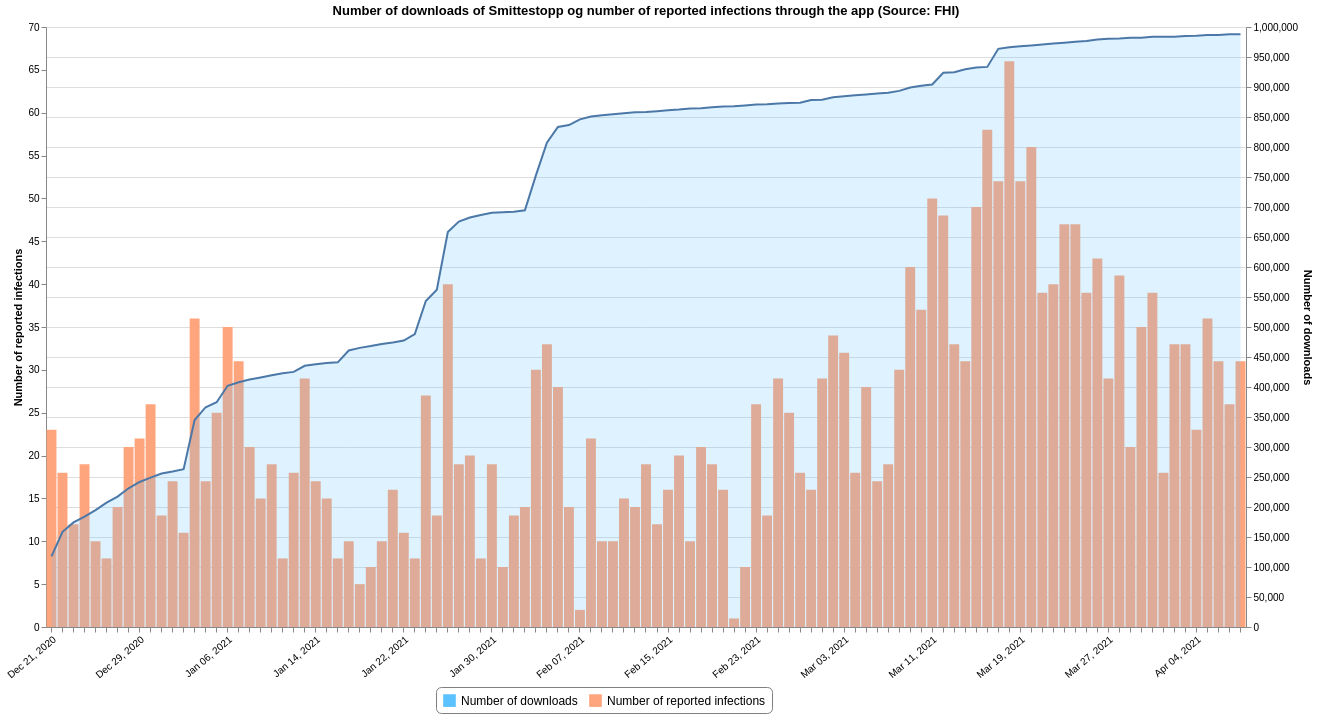
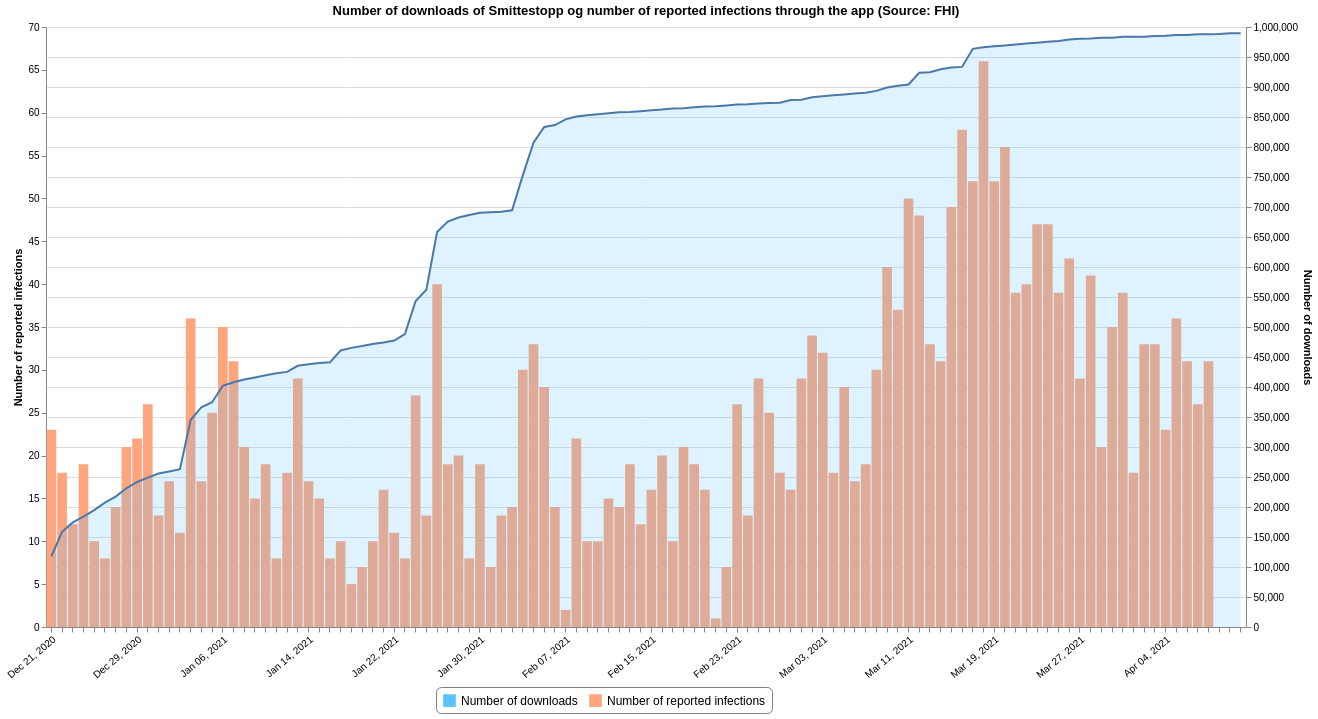
Updated 2021-04-12 09:10

diff --git a/README.md b/README.md
@@ -17,7 +17,7 @@ This repository contains datasets of daily time-series data related to COVID-19 
 |[Tested Lab](#tested_labcsv)|FHI|2021-04-09 13:20:43+02:00|[<center>csv</center>](https://raw.githubusercontent.com/frefrik/c19norge-data/main/data/tested_lab.csv)|[<center>preview</center>](data/tested_lab.csv)|
 |[Transport](#transportcsv)|FHI|2021-04-11 15:01:48+02:00|[<center>csv</center>](https://raw.githubusercontent.com/frefrik/c19norge-data/main/data/transport.csv)|[<center>preview</center>](data/transport.csv)|
 |[Vaccine Doses](#vaccine_dosescsv)|FHI|2021-04-09 13:20:48+02:00|[<center>csv</center>](https://raw.githubusercontent.com/frefrik/c19norge-data/main/data/vaccine_doses.csv)|[<center>preview</center>](data/vaccine_doses.csv)|
-|[Smittestopp](#smittestoppcsv)|FHI|2021-04-09 08:50:45+02:00|[<center>csv</center>](https://raw.githubusercontent.com/frefrik/c19norge-data/main/data/smittestopp.csv)|[<center>preview</center>](data/smittestopp.csv)|
+|[Smittestopp](#smittestoppcsv)|FHI|2021-04-12 09:10:50+02:00|[<center>csv</center>](https://raw.githubusercontent.com/frefrik/c19norge-data/main/data/smittestopp.csv)|[<center>preview</center>](data/smittestopp.csv)|
 <!-- table ends -->
 
 ## Datafiles
